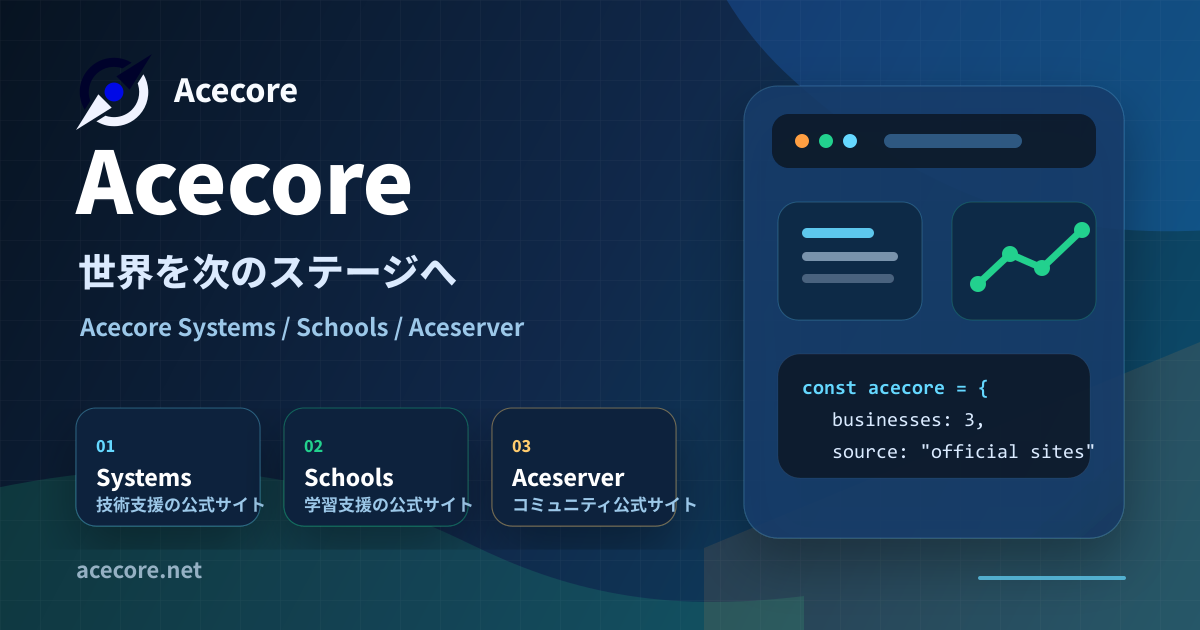
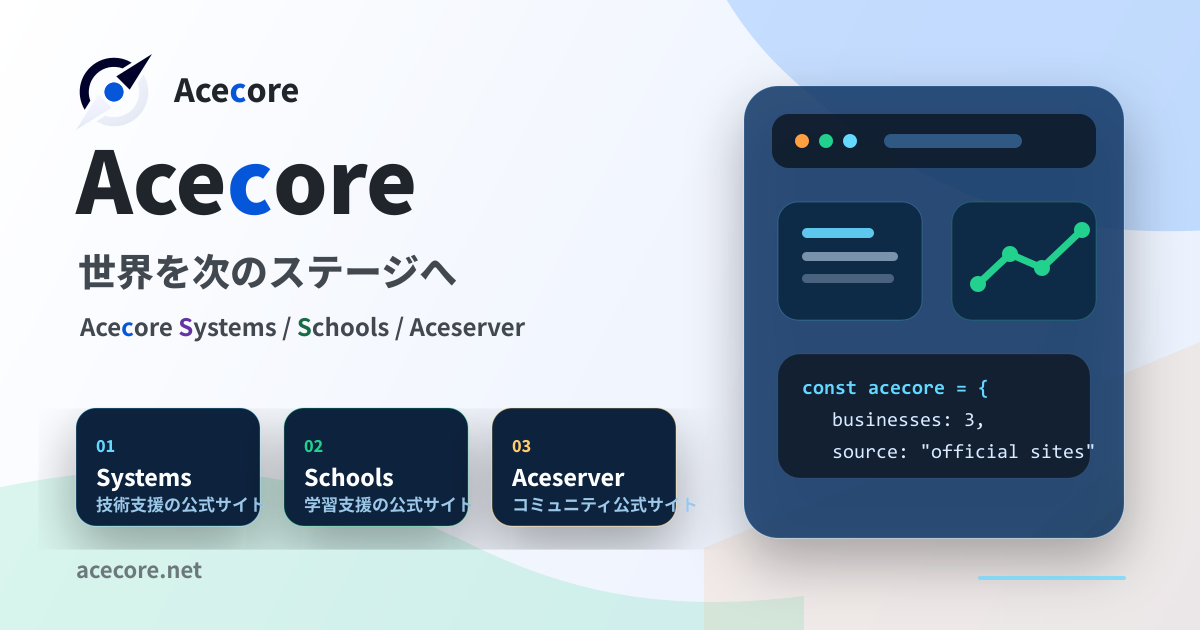
feat: 現行構成へ承認ロゴと配色だけを先行導入 (#318)

diff --git a/src/styles/brand.css b/src/styles/brand.css
@@ -1,0 +1,58 @@
+/* Logo and color rollout only; layout and typography remain in the existing styles. */
+:root {
+  --brand-blue: #0656d9;
+  --brand-system: #6334a4;
+  --brand-school: #176b45;
+  --brand-design: #8146ae;
+}
+.brand-word {
+  white-space: nowrap;
+  color: inherit;
+  -webkit-text-fill-color: currentColor;
+}
+.brand-word-corporate > .brand-initial {
+  color: var(--brand-blue);
+  -webkit-text-fill-color: var(--brand-blue);
+}
+.brand-word-systems > .brand-initial {
+  color: var(--brand-system);
+  -webkit-text-fill-color: var(--brand-system);
+}
+.brand-word-schools > .brand-initial {
+  color: var(--brand-school);
+  -webkit-text-fill-color: var(--brand-school);
+}
+.brand-word-designs > .brand-initial {
+  display: inline-block;
+  background: radial-gradient(
+    ellipse 110% 160% at -10% 0%,
+    #986000 0%,
+    #b33e71 35%,
+    #8146ae 65%,
+    #0656d9 100%
+  );
+  background-clip: text;
+  -webkit-background-clip: text;
+  color: transparent;
+  -webkit-text-fill-color: transparent;
+}
+footer {
+  --brand-system: #c2a1e7;
+  --brand-school: #a0dfbb;
+  --brand-design: #d4b9ee;
+}
+.department-list #systems .ac-card > span:first-child {
+  color: #6334a4;
+  background-color: #f7f2fc;
+  border-color: #d8c4ec;
+}
+.department-list #schools .ac-card > span:first-child {
+  color: #176b45;
+  background-color: #edf8f3;
+  border-color: #bbdfca;
+}
+.department-list #design .ac-card > span:first-child {
+  color: #8146ae;
+  background: linear-gradient(115deg, #fff8e8, #fff0f6, #f4effd, #edf4ff);
+  border-color: #d8c4ec;
+}

diff --git a/src/styles/global.css b/src/styles/global.css
@@ -12,9 +12,9 @@
   --color-brand-200: #acd3ff;
   --color-brand-300: #73b2f8;
   --color-brand-400: #3287e6;
-  --color-brand-500: #0b5fd3;
-  --color-brand-600: #063d91;
-  --color-brand-700: #053373;
+  --color-brand-500: #0656d9;
+  --color-brand-600: #0656d9;
+  --color-brand-700: #0446b5;
   --color-brand-800: #062c5f;
   --color-brand-900: #08254d;
   --color-brand-950: #00022b;

diff --git a/docs/brand-color-guidelines.md b/docs/brand-color-guidelines.md
@@ -1,0 +1,10 @@
+# ロゴ・カラーの先行導入
+
+2026-10-24、現在のmain構成へロゴと配色だけを適用する。レイアウト・余白・字級・文章・写真・提供範囲・機能は変えない。既存の全面刷新Draft（公式314、Designs5、Schools67、Systems162）は後続として保全する。将来の刷新merge前には先行mainのブランド変更を維持し、再照合する。
+
+- [承認ロゴの正本](https://github.com/acecore-systems/acecore-net/blob/3e70a83c077543c1ef41f4d5e8f26437a5df2c2f/docs/03_詳細設計/07_ブランドカラーと球状グラデーション.md)。同文書のレイアウト刷新はこの先行導入の範囲ではない。
+- 明背景は公式の上/左弧・右上矢印が単色#00022b、Systems紫・Schools緑・Designs多色。下/右弧・左下矢印は白基調、中央は#0656d9。テーマ/濃背景は全白。path/clip/viewBox/比率を保持する。
+- 文書imgは実背景に応じ/logo.svgまたは/logo-on-dark.svg。favicon.svgのみ外観切替し、OSdarkでも白headerは明版のまま。
+- Acecoreの2つ目のc（index3）だけ#0656d9、子名は頭文字だけ各事業色。残りは既存の中立色、濃背景は白系を継承。通常本文の社名は細分化しない。
+- 共通青#0656d9、Systems#8950c5、Schools#39a86b、Designs多色。操作/識別へ抑制して使い、通常見出し・長文・価格は中立色。通常文字には濃いtheme inkを使い、明るいgreenに小さい白字を載せない。意味のある警告色を保持する。
+- 元画像・Hatt・記事・料金・翻訳・CMS/API・フォーム・検索・AI・導線を保全。OGは既存構図/文字/座標を保持しロゴと配色のみ同期する。Designs mainの1ページ/catalog構成を維持し、portfolio/8ページ化を先取りしない。

diff --git a/AGENTS.md b/AGENTS.md
@@ -68,3 +68,7 @@
 実装、コンテンツschema、翻訳、検証、CMS、公開手順は、このrepoの最新のguidanceとローカルガイドを正本とする。共通ガイドの参照だけで、変更・翻訳・公開の権限や経路を追加しない。
 
 参照先は非公開repoのため、閲覧権限がない場合や取得できない場合は、読めなかった資料を明記し、このrepoの既存ガイドに従う。読者向けの公開参考資料を非公開のガイドリンクへ置き換えない。
+
+## ロゴ・カラー先行導入
+
+UI・ロゴの変更前に [ブランドカラーガイド](docs/brand-color-guidelines.md) を読む。全面刷新は後続Draftであり、このbranchでは既存構成を保持する。
